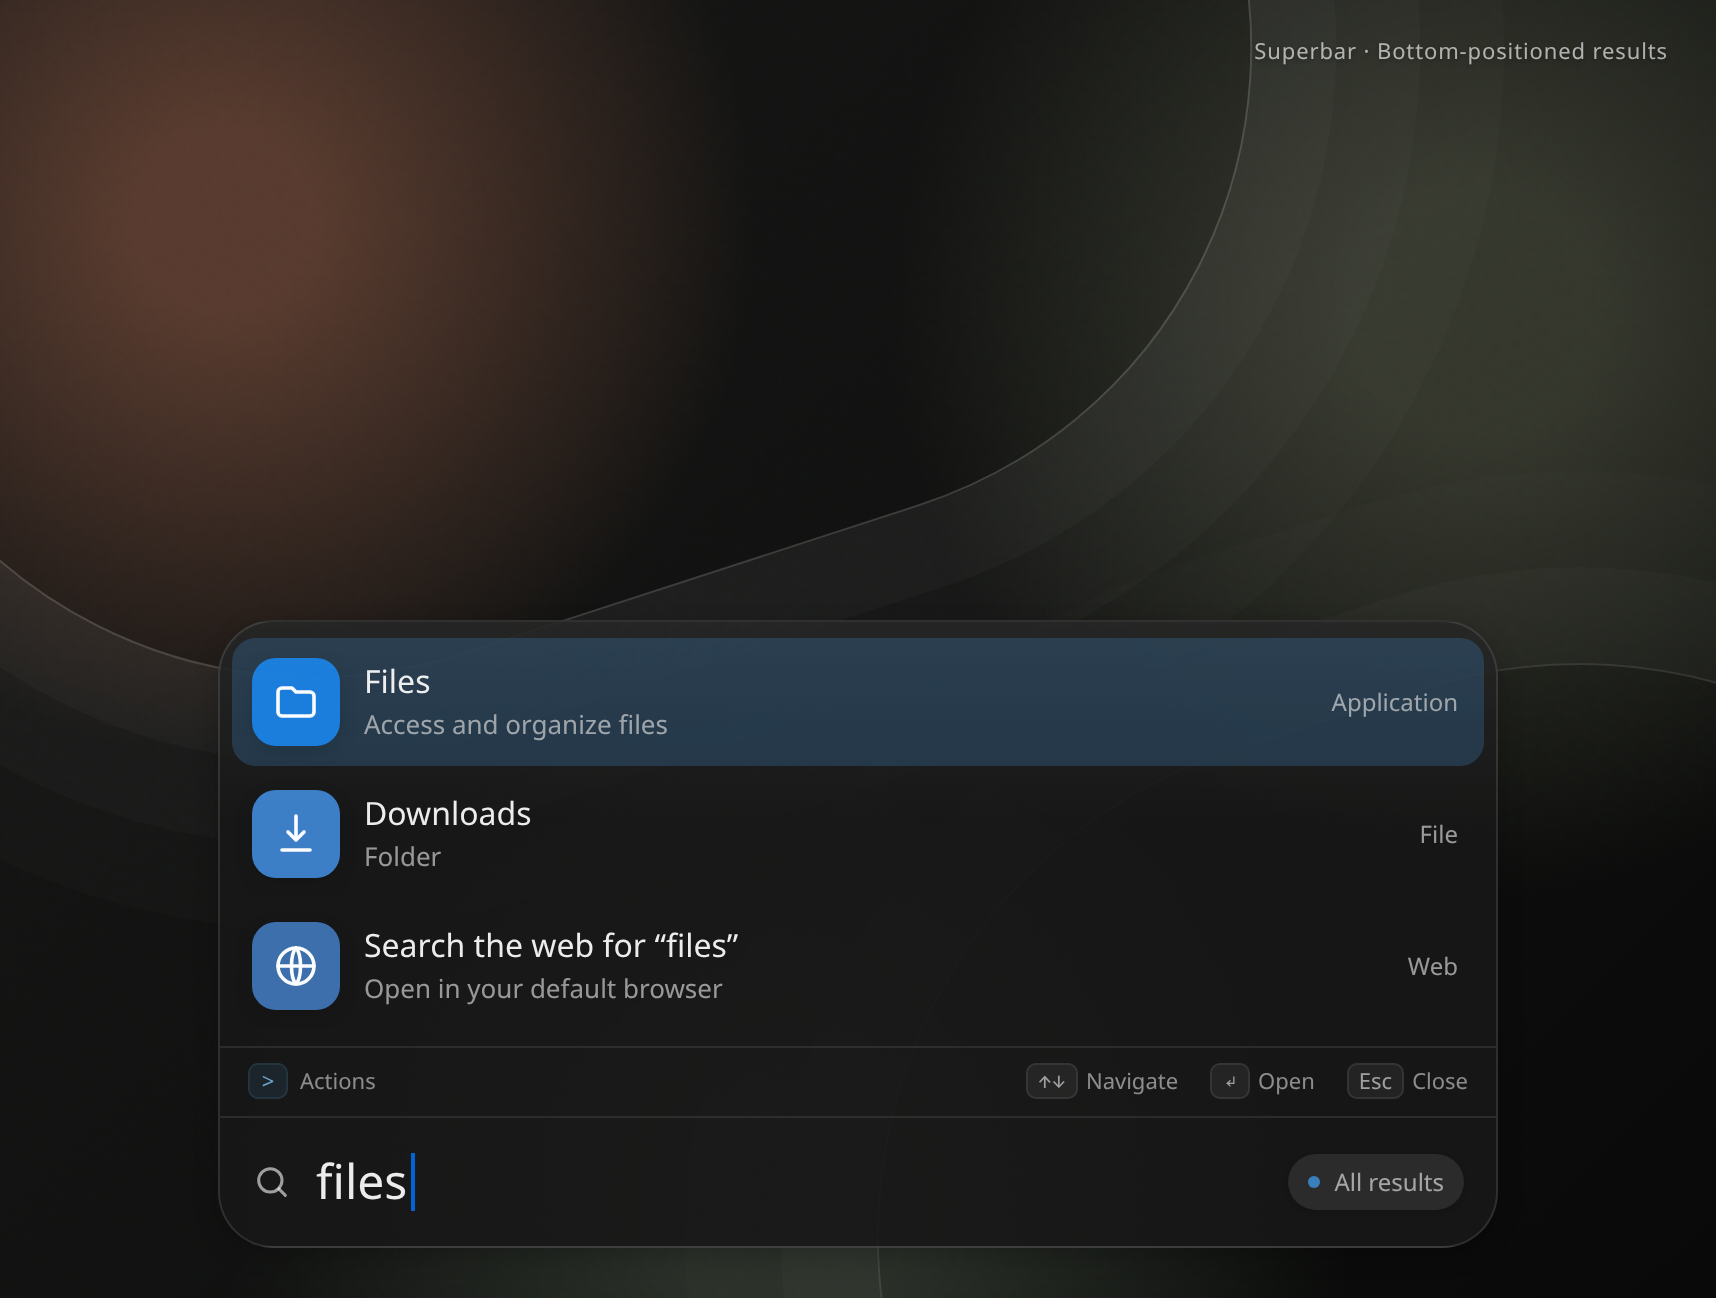
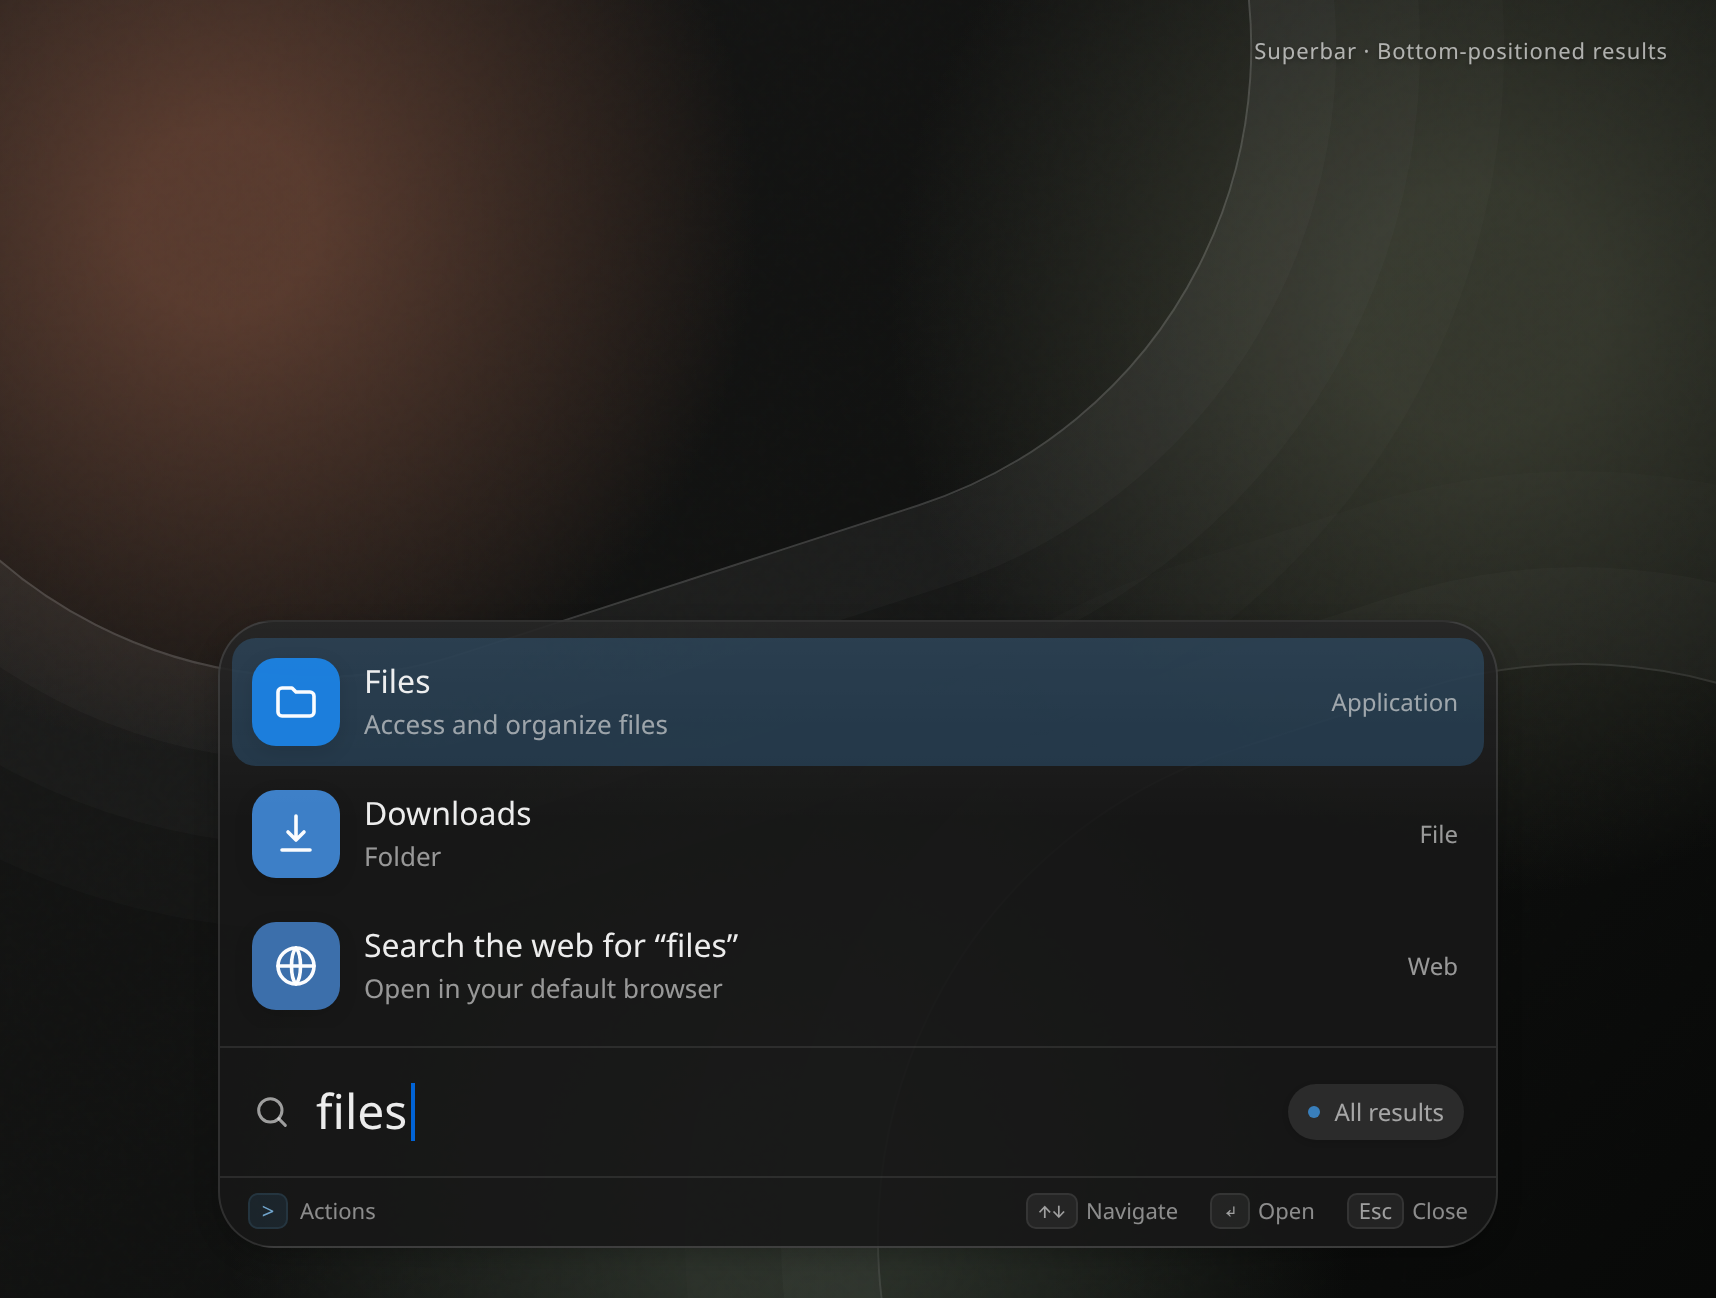
feat: Refactor divider visibility logic and update position labels in preferences

diff --git a/extension.js b/extension.js
@@ -22,7 +22,6 @@ const RESULTS_MAX_HEIGHT_FRACTION = 0.52;
 const OPEN_ANIMATION_MS = 250;
 const OPEN_TRANSLATION_Y = -10;
 const OPEN_SCALE = 0.985;
-const SEARCH_ROW_HEIGHT = 64;
 const TOP_POSITION_FRACTION = 0.12;
 const CENTER_POSITION_FRACTION = 0.22;
 const SURFACE_COLORS = {
@@ -2595,7 +2594,7 @@ export default class SearchBar extends Extension {
     }
 
     this._resultsState = "rows";
-    this._footerDivider.show();
+    this._updateDividerVisibility();
     this._results = results;
     this._selectedIndex = selectedResult
       ? results.findIndex((result) =>
@@ -2873,7 +2872,7 @@ export default class SearchBar extends Extension {
   _showStatus(kind, message) {
     this._clearResults();
     this._resultsState = kind;
-    this._footerDivider.show();
+    this._updateDividerVisibility();
     this._statusBox.remove_style_class_name("empty");
     this._statusBox.remove_style_class_name("loading");
     this._statusBox.remove_style_class_name("error");
@@ -2888,7 +2887,7 @@ export default class SearchBar extends Extension {
   _hideResults() {
     this._clearResults();
     this._resultsState = "hidden";
-    this._footerDivider.hide();
+    this._updateDividerVisibility();
     this._setResultsHeight(0);
   }
 
@@ -3068,8 +3067,10 @@ export default class SearchBar extends Extension {
     );
     const [, naturalHeight] =
       this._resultsBox.get_preferred_height(preferredWidth);
+    const minimumHeight =
+      this._resultsState === "rows" ? 0 : RESULTS_MIN_HEIGHT;
     const height = Math.min(
-      Math.max(RESULTS_MIN_HEIGHT, naturalHeight),
+      Math.max(minimumHeight, naturalHeight),
       this._getResultsMaxHeight(),
     );
     this._setResultsHeight(height, animate);
@@ -3121,6 +3122,24 @@ export default class SearchBar extends Extension {
 
   // --- Layout ---
 
+  _updateDividerVisibility() {
+    if (!this._headerDivider || !this._footerDivider) return;
+
+    if (this._resultsState !== "hidden") {
+      this._headerDivider.show();
+      this._footerDivider.show();
+      return;
+    }
+
+    if (this._settings?.get_string("bar-position") === "bottom") {
+      this._headerDivider.hide();
+      this._footerDivider.show();
+    } else {
+      this._headerDivider.show();
+      this._footerDivider.hide();
+    }
+  }
+
   _updateContentDirection(positionKey) {
     const expandUpward = positionKey === "bottom";
     if (
@@ -3133,10 +3152,10 @@ export default class SearchBar extends Extension {
     const children = expandUpward
       ? [
           this._resultsClip,
-          this._footerDivider,
-          this._footer,
           this._headerDivider,
           this._inputRow,
+          this._footerDivider,
+          this._footer,
         ]
       : [
           this._inputRow,
@@ -3150,6 +3169,7 @@ export default class SearchBar extends Extension {
       this._contentLayer.set_child_at_index(child, index);
     });
     this._resultsExpandUpward = expandUpward;
+    this._updateDividerVisibility();
     this._contentLayer.queue_relayout();
   }
 
@@ -3244,18 +3264,13 @@ export default class SearchBar extends Extension {
         containerHeight -
         MONITOR_EDGE_MARGIN,
     );
-    const inputAnchorY =
+    const preferredY =
       positionKey === "bottom"
         ? workArea.y +
           workArea.height -
           Math.floor(workArea.height * TOP_POSITION_FRACTION) -
-          SEARCH_ROW_HEIGHT
+          containerHeight
         : workArea.y + Math.floor(workArea.height * fraction);
-    const upwardContentHeight =
-      positionKey === "bottom"
-        ? Math.max(0, containerHeight - SEARCH_ROW_HEIGHT)
-        : 0;
-    const preferredY = inputAnchorY - upwardContentHeight;
     const y = Math.max(minimumY, Math.min(maximumY, preferredY));
     const x =
       workArea.x + Math.floor((workArea.width - containerWidth) / 2);

diff --git a/showcase/showcase.js b/showcase/showcase.js
@@ -103,17 +103,19 @@
     superbar.classList.add("bottom-position");
     superbar.append(
       results,
-      footerDivider,
-      footer,
       resultsDivider,
       searchRow,
+      footerDivider,
+      footer,
     );
   }
 
   const hasResults = state.rows.length > 0;
-  document.querySelector(".results-divider").hidden = !hasResults;
+  document.querySelector(".results-divider").hidden =
+    !hasResults && state.position === "bottom";
   document.querySelector(".results").hidden = !hasResults;
-  document.querySelector(".footer-divider").hidden = !hasResults;
+  document.querySelector(".footer-divider").hidden =
+    !hasResults && state.position !== "bottom";
   document.querySelector(".footer").hidden = !hasResults;
 
   document.fonts.ready.then(() => {

diff --git a/prefs.js b/prefs.js
@@ -365,7 +365,7 @@ export default class SuperbarPreferences extends ExtensionPreferences {
     );
     appearanceGroup.add(barWidthRow);
 
-    const positionLabels = ["Top (¼ from top)", "Center", "Bottom"];
+    const positionLabels = ["Top", "Center", "Bottom"];
     const positionKeys = ["top", "center", "bottom"];
     const positionRow = new Adw.ComboRow({
       title: "Vertical Position",
